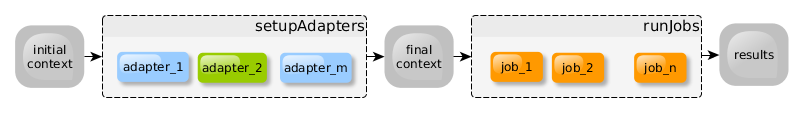
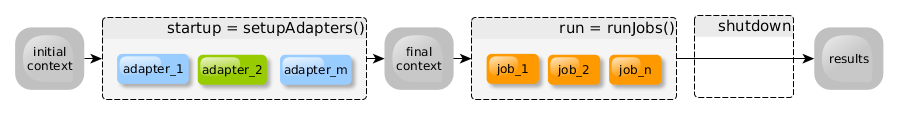
Update the figures. Add description of startup and run processes to the intro.md

diff --git a/docs/intro.md b/docs/intro.md
@@ -163,7 +163,7 @@ An application, that is built upon `npac`, is made of the following components:
 
 ## The lifecycle of an npac application
 
-![lifecycle](images/lifecycle.png)
+An `npac` application's lifecycle has three phases:
 
 1. __startup__
 
@@ -179,7 +179,77 @@ An application, that is built upon `npac`, is made of the following components:
 
    Gracefully shuts-down the jobs and adapters, then exit.
 
+![lifecycle](images/lifecycle.png)
+
+## The startup phase
+
+When you implement an `npac` application you have to define the adapters to use,
+and the jobs to run by the container.
+
+You need to create one array for the adapters and one for the jobs,
+then you should call the `npac.start(adapters, jobs, cb)` function with the arrays you created.
+The last parameter of the `start()` function is an error-first callback,
+with `(error: {Object}, results: {Array})` signature, where `error` is null, in case of successful execution,
+or an `Error` object, in case of failure. The `results` is an array of the results of the jobs called during the run phase.
+
+The `npac.start()` function first calls the `npac.startupAdapters()` function that is the startup phase,
+and after that, it calls the `npac.runJobs()` function that is the run phase.
+
+The purpose of the startup phase is to create the context for the jobs in the run phase.
+
+The context is made of adapter objects. They must be added to the context one-by-one.
+They can be added to the context via listing them in the adapters array, that will be processed by the
+`startupAdapters()` function. This function is a reducer, which starts with an initial context object,
+then iterates through the adapters array, and processes each item.
+
+The items of the adapters array can be either an adapter object,
+or a so called adapter-function with the `(context: {Object}, callback: {Function})` signature.
+The callback is an error-first function, with `(error: {Object}, contextExtension: {Object})` signature.
+
+This adapter-function must call this callback function with a object,
+that wants to merge with the actual context.
+
+This way each iteration on the adapters return with an object, that structurally looks like the context,
+but contains only those properties, that the given adapter wants to add to the context as an extension.
+Then the `npac.startupAdapters()` function merges this context extension to the current version of context
+that is accumulated by this reduce process.
+
+In case an item of the adapters array is not a function but it is an object,
+then it s handled as the contextExtension itself, and will be merged with the context.
+
+At the end of the process the outcome is the final version of the context.
+The following figure demonstrates the execution of the reduce process.
+
 ![setupAdapters](images/setupAdapters.png)
 
+In each step the adapter function can access to those APIs that are previously merged with the context,
+so the order of adapters in the array may matters.
+
+Important note: The adapter functions can use, the context, and modify it, by merging new content into it,
+which takes effect during execution that follows the call of the adapter-function.
+
+The whole process begins with a minimal context that holds a `config` property with the absolute minimum configuration parameters.
+Since the adapters themselves might need configuration parameters, the best way to start the adapters array is to put an
+adapter object, named `config` to the very first position.
+
+## The run phase
+
+The run phase uses the final context, and calls the job functions listed in the jobs array.
+
+The job functions can not alter the context, but fully access to it.
+The job function signature is `(context: {Object}, callback: {Function})`,
+where `context` is the final context, created during the startup process, and `callback` is an error-first
+function with the `(error: {Object}, result: {Object})` signature. The `result` argument of the callback
+must contain the result of the job execution, that will be appended to the list of results of the application.
+
+The next figure demonstrates the execution of the run phase.
+
 ![runJobs](images/runJobs.png)
+
+## The shutdown phase
+
+The signal handling and graceful shutdown feature is not implemented yet.
+
+The application is simply exits after finished the execution of jobs.
+
 
